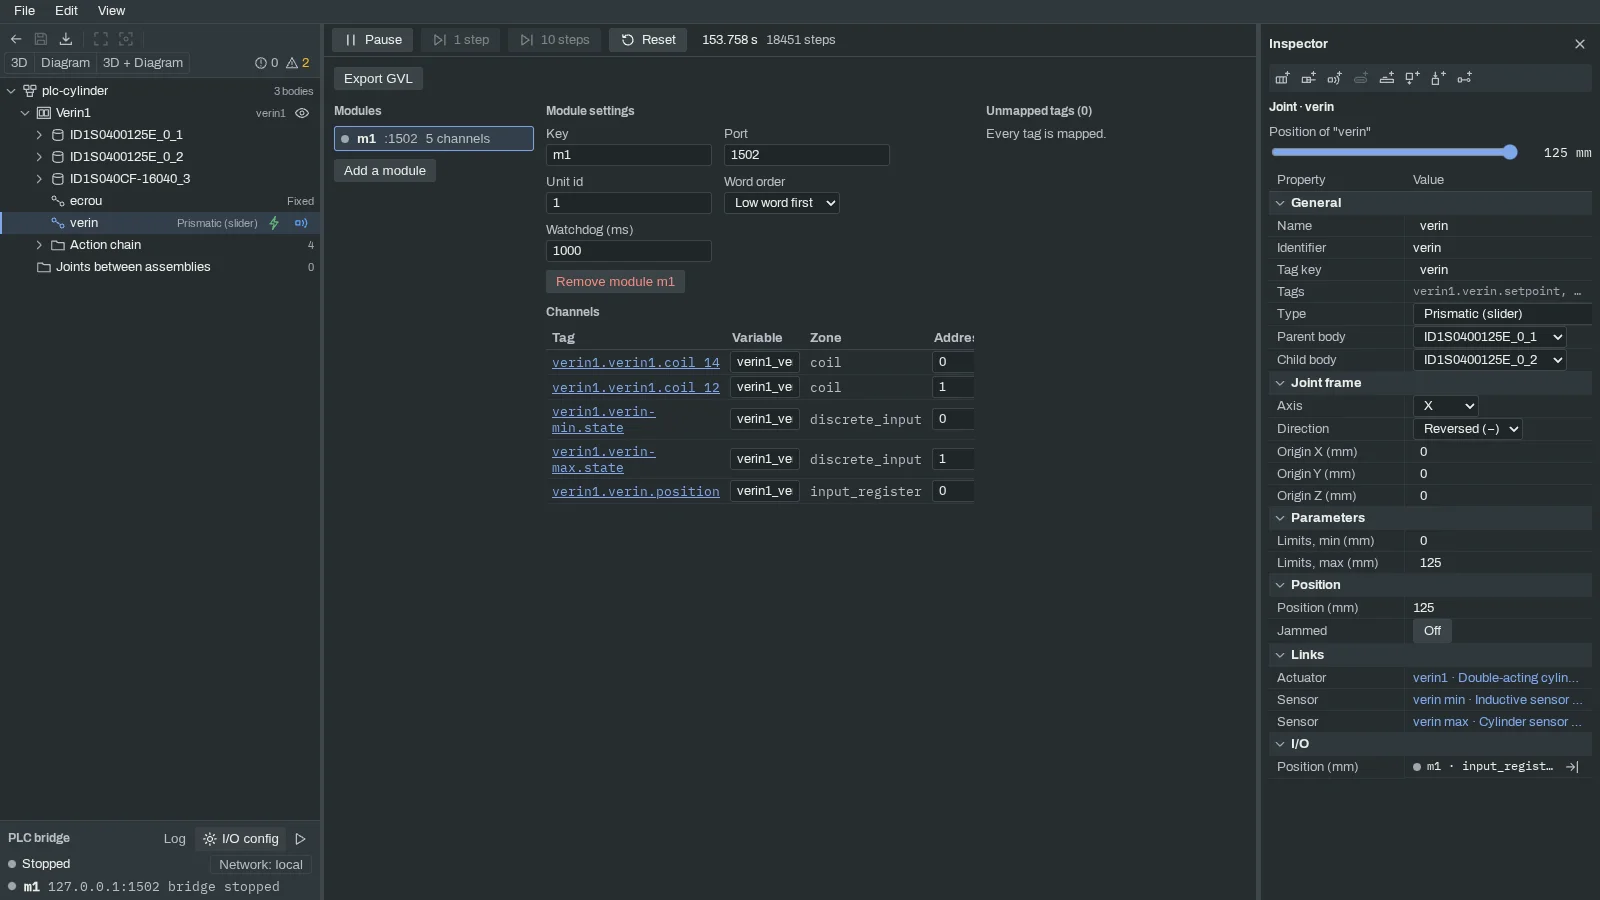
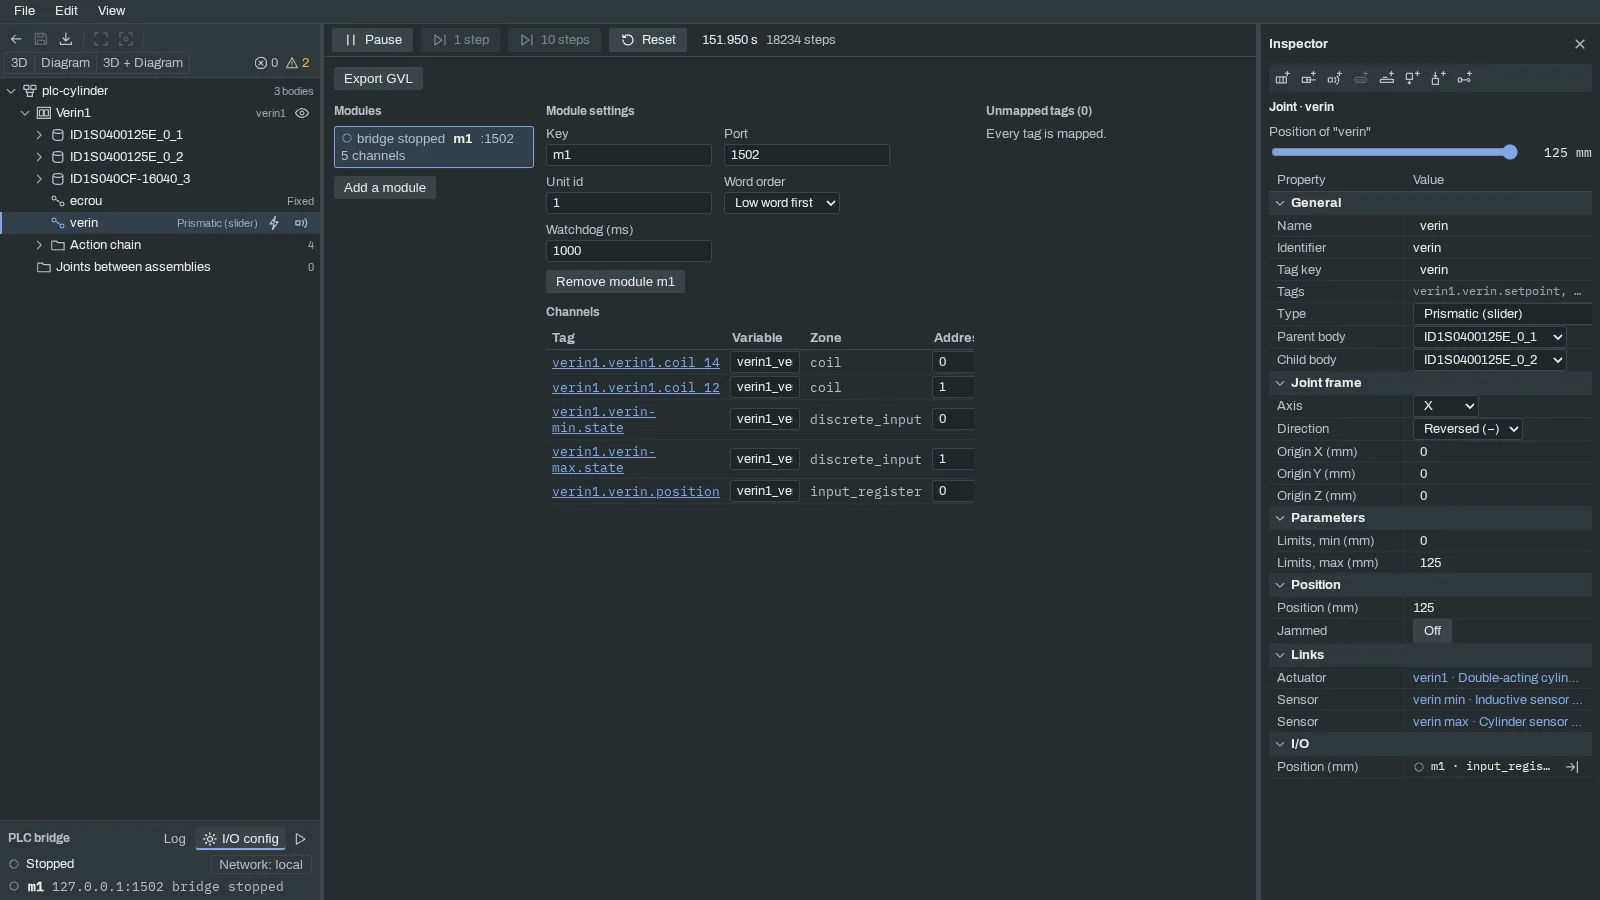
docs(site): colour and cue legend, guide and screenshots for colour-blind safe coding (ADR 0057 slice 8)
Claude-Session: https://claude.ai/code/session_01386vuz4pZpXaZm5zqPUMKQ

diff --git a/docs/site/.vitepress/config.ts b/docs/site/.vitepress/config.ts
@@ -37,6 +37,7 @@ const frenchReference = [
   { text: "Menus", link: "/reference/menus" },
   { text: "Panneaux et boutons", link: "/reference/panels" },
   { text: "Vues centrales", link: "/reference/views" },
+  { text: "Lire les couleurs et les repères", link: "/reference/colours" },
   { text: "Raccourcis clavier et souris", link: "/reference/shortcuts" },
 ];
 
@@ -77,6 +78,7 @@ const englishReference = [
   { text: "Menus", link: "/en/reference/menus" },
   { text: "Panels and buttons", link: "/en/reference/panels" },
   { text: "Central views", link: "/en/reference/views" },
+  { text: "Reading colours and cues", link: "/en/reference/colours" },
   { text: "Keyboard and mouse shortcuts", link: "/en/reference/shortcuts" },
 ];
 

diff --git a/docs/site/reference/colours.md b/docs/site/reference/colours.md
@@ -1,0 +1,86 @@
+# Lire les couleurs et les repères
+
+Chaque codage de l'écran se lit sans la couleur : un pictogramme, une forme, un plein ou un contour, un style de trait ou un mot dit la même chose qu'elle. Les couleurs ont en plus été choisies pour les utilisateurs daltoniens : les paires de codages montrés ensemble sont enregistrées et vérifiées par des tests, avec une simulation de la protanopie, de la deutéranopie et de la tritanopie. Là où deux couleurs ne peuvent pas rester assez distantes (les axes en thème clair, les fils du schéma, le signal actif ou non, les volumes des convoyeurs, avec des écarts mesurés de 8 à 34), le test enregistre l'écart mesuré et le repère qui prend le relais.
+
+Pantin suit les principes de la norme ISA-101 pour les écrans de conduite (gris par défaut, couleur réservée à ce qui compte, jamais seule), sans prétendre s'y conformer : le texte de la norme n'a pas été lu ([ADR 0057](https://github.com/ProtoGulix/pantin/blob/develop/docs/decisions/0057-colour-blind-safe-coding.md), [rapport 0010](https://github.com/ProtoGulix/pantin/blob/develop/docs/spikes/0010-isa-101-hmi-colour.md)). L'identité visuelle (orange de la marque, deux thèmes) ne change pas. Cette page décrit ce que fait le code ; les teintes exactes se règlent dans les thèmes.
+
+## Une couleur, un sens
+
+| Couleur | Sens, partout (3D, arborescence, schéma, panneaux) |
+| --- | --- |
+| Bleu de sélection | Sélectionné, focus, le côté qui bouge, attention de l'interface (modifications non enregistrées, occupé, cible d'un lien). |
+| Vert | Un signal actif, une sortie alimentée, un pont en marche, et rien d'autre. |
+| Ambre | Forcé, avertissement. |
+| Rouge | Erreur, échec, défaut injecté, valeur invalide. |
+| Orange de la marque | Pantin lui-même : boutons principaux, onglet ou mode de vue actif. Jamais un état. |
+| Gris et couleurs du texte | Toute autre propriété (piloté, surveillé, terminé, information). |
+
+Une exception assumée : l'axe Y est vert, comme dans la plupart des logiciels de CAO. La lettre **Y** au bout de l'axe le distingue du vert « actif ».
+
+## Les états : un pictogramme à côté de la couleur
+
+| Repère (sans couleur) | Couleur | État |
+| --- | --- | --- |
+| Coche | vert | Normal, correct, en marche |
+| Triangle d'avertissement | ambre | Avertissement |
+| Croix dans un octogone | rouge | Erreur, échec |
+| Anneau | neutre | Au repos, éteint |
+| Anneau dont la moitié gauche est pleine | bleu de sélection | Occupé, en cours |
+| Lettre **F** près d'un connecteur du schéma ; cadenas et mot **forcé** dans l'inspecteur | ambre | Tag forcé depuis le viewer |
+
+Ces pictogrammes (12 px) se trouvent sur la pastille du pont, les lignes des modules, la liste des modules d'E/S (qui écrit aussi le mot de l'état) et les badges du journal.
+
+### Les badges du journal
+
+| Repère | Remplissage et contour | Niveau |
+| --- | --- | --- |
+| Cercle avec un i et mot **Info** | sans remplissage, texte atténué | Information |
+| Triangle et mot **Avert.** | ambre, texte sombre | Avertissement |
+| Croix dans un octogone et mot **Erreur** | rouge, texte blanc | Erreur |
+
+Chaque badge rempli a un contour qui reste visible sur le fond du panneau.
+
+## Dans la vue 3D
+
+| Élément | Repère (sans couleur) | Couleur |
+| --- | --- | --- |
+| Corps sélectionné | Un contour | Teinte bleue |
+| Aperçu d'une liaison, parent | Teinte sans contour | Jaune-orangé |
+| Aperçu d'une liaison, enfant (le corps qui bouge) | Teinte avec contour | Bleu |
+| Pastilles du formulaire de liaison | Disque pour le parent, carré cerné pour l'enfant | Comme ci-dessus |
+| Flèche d'une liaison | Une collerette (disque) à la base de la tige quand un actionneur déplace la liaison | Bleue, libre ou pilotée |
+| Alignement de faces | Face qui bouge cernée d'un contour, face cible sans contour | Bleu, jaune-orangé |
+| Marqueur de capteur, faisceau lumineux | Actif : épais et opaque. Inactif : fin et translucide | Actif vert, inactif neutre |
+| Axes X, Y, Z | Les lettres **X**, **Y**, **Z** au bout des axes du sol, du trièdre et du cube de vues | Rouge, vert, bleu, de luminosités différentes |
+
+Dans l'arborescence, un capteur actif est un disque plein, inactif un anneau.
+
+## Dans le schéma des chaînes
+
+Chaque sorte de fil a son trait et une étiquette écrite sur le fil :
+
+| Étiquette | Sorte | Trait | Couleur |
+| --- | --- | --- | --- |
+| **PNEU** | Pneumatique | Tirets longs, 1,5 px | Bleu clair (thème sombre), bleu moyen saturé (thème clair) |
+| **CA** | Puissance alternative | Plein, 2,5 px | Presque blanc (thème sombre) ou presque noir (thème clair) |
+| **SERVO** | Asservissement | Pointillés, 2 px | Mauve (thème sombre), prune très foncé (thème clair) |
+| **MÉC** | Mécanique | Plein, 1,5 px | Gris clair (thème sombre), gris foncé (thème clair) |
+| **OBS** | Observation | Tiret et point, 1 px | Bleu-violet moyen (thème sombre), indigo proche du violet (thème clair) |
+
+Ce sont l'étiquette et le style de trait qui identifient un fil, pas sa couleur. Aucun fil n'a l'ambre, le rouge ou le vert des états, ni l'orange de Pantin. Le pneumatique et l'observation, tous deux bleutés, ne se distinguent que par le trait, l'épaisseur et l'étiquette.
+
+## Les volumes des convoyeurs
+
+| Volume | Repère (sans couleur) | Couleur |
+| --- | --- | --- |
+| Émetteur | Signe **+** sur le volume, volume cerné et translucide | Presque blanc (thème sombre), presque noir (thème clair) : le gris le plus éloigné du fond |
+| Absorbeur | Signe **−** sur le volume, volume cerné et translucide | Gris moyen, le plus proche du fond que la règle des 3:1 permet |
+| Guide | Corps presque plein | Gris clair bleuté (thème sombre), presque noir (thème clair) |
+| Bande | Corps plein | Gris foncé (thème sombre), presque noir (thème clair) |
+
+Les signes **+** et **−** sont dessinés avec un halo, lisible sur n'importe quel gris.
+
+## Ce qui n'est pas vérifié
+
+- La visibilité du contour de sélection sur tous les maillages importés.
+- Le rendu des couleurs sur un écran réel : les mesures sont faites par calcul, sur des simulations de daltonisme (Machado 2009), pas avec des personnes.

diff --git a/docs/site/en/reference/colours.md b/docs/site/en/reference/colours.md
@@ -1,0 +1,86 @@
+# Reading colours and cues
+
+Every coding on screen can be read without colour: an icon, a shape, a fill or an outline, a line style or a word says the same thing. The colours were also chosen for colour-blind users: the pairs of codings shown together are registered and checked by tests, with a simulation of protanopia, deuteranopia and tritanopia. Where two colours cannot stay far enough apart (the axes in the light theme, the diagram wires, a signal on or off, the conveyor volumes, with measured gaps from 8 to 34), the test records the measured gap and the cue that takes over.
+
+Pantin follows the principles of the ISA-101 standard for operator screens (grey by default, colour kept for what matters, never alone) without claiming conformance: the text of the standard was not read ([ADR 0057](https://github.com/ProtoGulix/pantin/blob/develop/docs/decisions/0057-colour-blind-safe-coding.md), [report 0010](https://github.com/ProtoGulix/pantin/blob/develop/docs/spikes/0010-isa-101-hmi-colour.md)). The visual identity (brand orange, two themes) does not change. This page describes what the code does; the exact shades are set in the themes.
+
+## One colour, one meaning
+
+| Colour | Meaning, everywhere (3D, tree, diagram, panels) |
+| --- | --- |
+| Selection blue | Selected, focus, the side that moves, interface attention (unsaved changes, busy, link target). |
+| Green | A signal on, an output energised, a bridge running, and nothing else. |
+| Amber | Forced, warning. |
+| Red | Error, failure, injected fault, invalid value. |
+| Brand orange | Pantin itself: primary buttons, the active tab or view mode. Never a state. |
+| Grey and text colours | Every other property (driven, watched, done, information). |
+
+One declared exception: the Y axis is green, as in most CAD software. The letter **Y** at the end of the axis tells it apart from the "on" green.
+
+## States: an icon beside the colour
+
+| Cue (no colour) | Colour | State |
+| --- | --- | --- |
+| Check | green | Normal, correct, running |
+| Warning triangle | amber | Warning |
+| Cross in an octagon | red | Error, failure |
+| Ring | neutral | Idle, off |
+| Ring with its left half filled | selection blue | Busy, under way |
+| Letter **F** beside a diagram socket; padlock and the word **forced** in the inspector | amber | Tag forced from the viewer |
+
+These 12 px icons appear on the bridge status dot, the module lines, the I/O module list (which also writes the status word) and the journal badges.
+
+### Journal badges
+
+| Cue | Fill and outline | Level |
+| --- | --- | --- |
+| Circled i and word **Info** | no fill, muted text | Information |
+| Triangle and word **Warn.** | amber, dark text | Warning |
+| Cross in an octagon and word **Error** | red, white text | Error |
+
+Each filled badge has an outline that stays visible on the panel background.
+
+## In the 3D view
+
+| Element | Cue (no colour) | Colour |
+| --- | --- | --- |
+| Selected body | An outline | Blue tint |
+| Joint preview, parent | Tint without outline | Yellow-orange |
+| Joint preview, child (the body that moves) | Tint with outline | Blue |
+| Swatches of the joint form | Disc for the parent, outlined square for the child | As above |
+| Joint arrow | A collar (disc) at the base of the shaft when an actuator moves the joint | Blue, free or driven |
+| Face alignment | Moving face outlined, target face without outline | Blue, yellow-orange |
+| Sensor marker, light beam | On: thick and opaque. Off: thin and translucent | On green, off neutral |
+| Axes X, Y, Z | The letters **X**, **Y**, **Z** at the end of the ground axes, the trihedron and the view cube | Red, green, blue, of different lightness |
+
+In the tree, an active sensor is a filled disc, an inactive one a ring.
+
+## In the chain diagram
+
+Each kind of wire has its own stroke and a label written on the wire:
+
+| Label | Kind | Stroke | Colour |
+| --- | --- | --- | --- |
+| **PNEU** | Pneumatic | Long dashes, 1.5 px | Light blue (dark theme), medium saturated blue (light theme) |
+| **AC** | AC power | Solid, 2.5 px | Almost white (dark theme) or almost black (light theme) |
+| **SERVO** | Servo | Dotted, 2 px | Mauve (dark theme), very dark plum (light theme) |
+| **MECH** | Mechanical | Solid, 1.5 px | Light grey (dark theme), dark grey (light theme) |
+| **OBS** | Observation | Dash-dot, 1 px | Medium blue-violet (dark theme), indigo close to violet (light theme) |
+
+The label and the stroke identify a wire, not its colour. No wire takes the amber, red or green of the states, or the Pantin orange. Pneumatic and observation, both bluish, differ only by stroke, width and label.
+
+## Conveyor volumes
+
+| Volume | Cue (no colour) | Colour |
+| --- | --- | --- |
+| Emitter | Sign **+** on the volume, outlined translucent volume | Almost white (dark theme), almost black (light theme): the grey farthest from the ground |
+| Absorber | Sign **−** on the volume, outlined translucent volume | Mid grey, the nearest the ground that the 3:1 rule allows |
+| Guide | Nearly solid body | Light bluish grey (dark theme), almost black (light theme) |
+| Belt | Solid body | Dark grey (dark theme), almost black (light theme) |
+
+The **+** and **−** signs are drawn with a halo, legible on any grey.
+
+## What is not verified
+
+- The visibility of the selection outline on every imported mesh.
+- How the colours look on a real screen: the measurements are computed on colour-blindness simulations (Machado 2009), not with people.

diff --git a/docs/site/en/reference/views.md b/docs/site/en/reference/views.md
@@ -84,7 +84,7 @@ A selected body or assembly takes a blue tint (the selection colour) and an outl
 
 ### Sensors in the view
 
-Each joint sensor is drawn in the view: a thick stretch of the axis for a range sensor, an arc for a pivot, a ring otherwise. It lights up (blue) when its state tag is 1 and stays greyed out at 0. The viewer never computes this state: it reads the tag.
+Each joint sensor is drawn in the view: a thick stretch of the axis for a range sensor, an arc for a pivot, a ring otherwise. It lights up (green, thicker and opaque) when its state tag is 1 and stays neutral, thin and translucent at 0; see [Reading colours and cues](/en/reference/colours). The viewer never computes this state: it reads the tag.
 
 ### Hiding and isolating
 

diff --git a/CHANGELOG.md b/CHANGELOG.md
@@ -48,6 +48,9 @@ All notable changes to Pantin. The format follows
   its own dash and width, with per-theme colours away from the state hues
   and the brand; conveyor volumes are greys of different lightness, the
   emitter marked "+" and the absorber "−".
+- Documentation (ADR 0057, last slice): a reference page "Lire les couleurs et
+  les repères" / "Reading colours and cues" lists every coding with its
+  non-colour cue first; the screenshots are regenerated with the new look.
 
 ### Fixed
 
